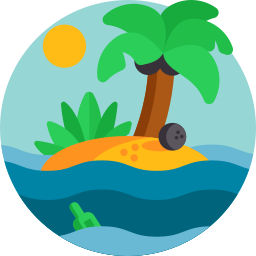
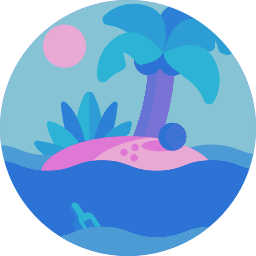
Refactor island asset and code

diff --git a/src/screens/Trip/Islands.js b/src/screens/Trip/Islands.js
@@ -4,7 +4,6 @@ import {
   Card,
   CardItem,
   Body,
-  Container,
   Content,
   Text,
 } from "native-base";
@@ -67,7 +66,7 @@ export default function Islands({route, navigation}) {
                 <CardItem style={styles.cardItem}>
                   <Body style={styles.cardBody}>
                     <ImageBackground style={styles.image} source={island}>
-                      <Image style={{alignSelf: "center", marginVertical: "20%", opacity: 1, tintColor: null}} source={item.image} />
+                      <Image style={{alignSelf: "center", marginVertical: "20%"}} source={item.image} />
                     </ImageBackground>
                     <Text style={styles.imageTitle}>{item.title}</Text>
                   </Body>
@@ -142,8 +141,6 @@ const styles = StyleSheet.create({
     width: 80,
     height: 80,
     marginBottom: 10,
-    opacity: 0.5,
-    tintColor: Colors.brightNavyBlue,
   },
   imageTitle: {
     fontSize: 18,
